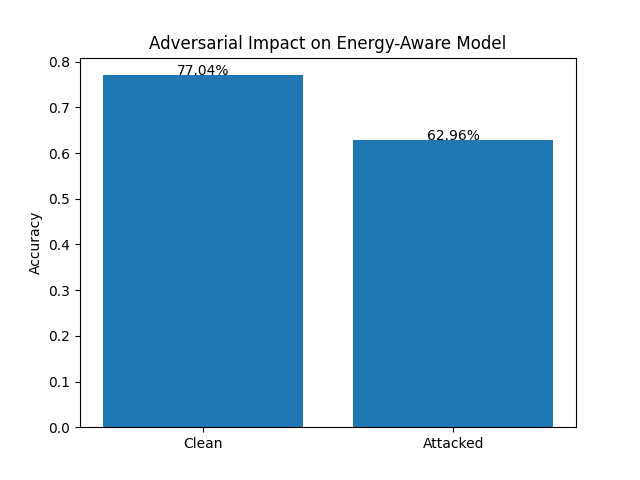
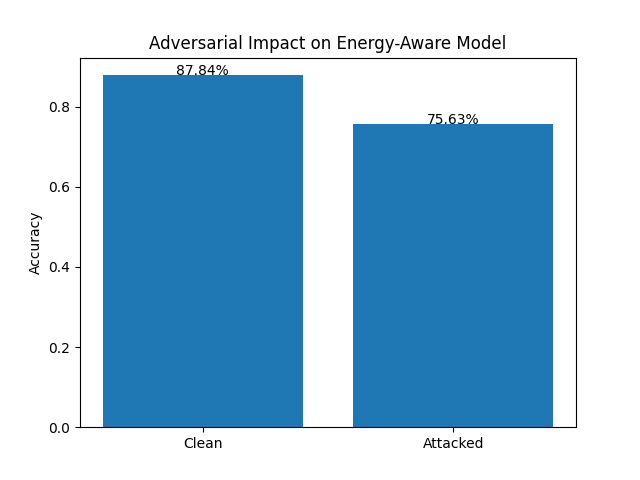
M

diff --git a/src/server.py b/src/server.py
@@ -40,6 +40,11 @@ def compute_hada_weights(shap_scores, epsilons, energies, tau=1.0, beta=1e-5):
         np.max(energies) - np.min(energies) + 1e-8
     )
 
+    # weights = energies ** 4
+    # weights += 0.1 * shap_scores
+    # weights = np.exp( weights)
+    # weights = weights / np.sum(weights)
+
     # 🔥 COMBINE SHAP + ENERGY
     weights = (shap_scores * 0.3 + energies * 0.7) / (epsilons + beta)
     weights=weights ** 2

diff --git a/src/client.py b/src/client.py
@@ -43,6 +43,9 @@ def create_clients(X, y, num_clients=5, shuffle=True):
         class_balance = np.mean(y_np[indices])
 
         energy = 50 + (data_size / len(X)) * 40 + (class_balance * 10)
+        noise = np.random.uniform(0.5, 1.5)
+        energy = energy * noise
+        
 
         # ==============================
         # CLIENT OBJECT
